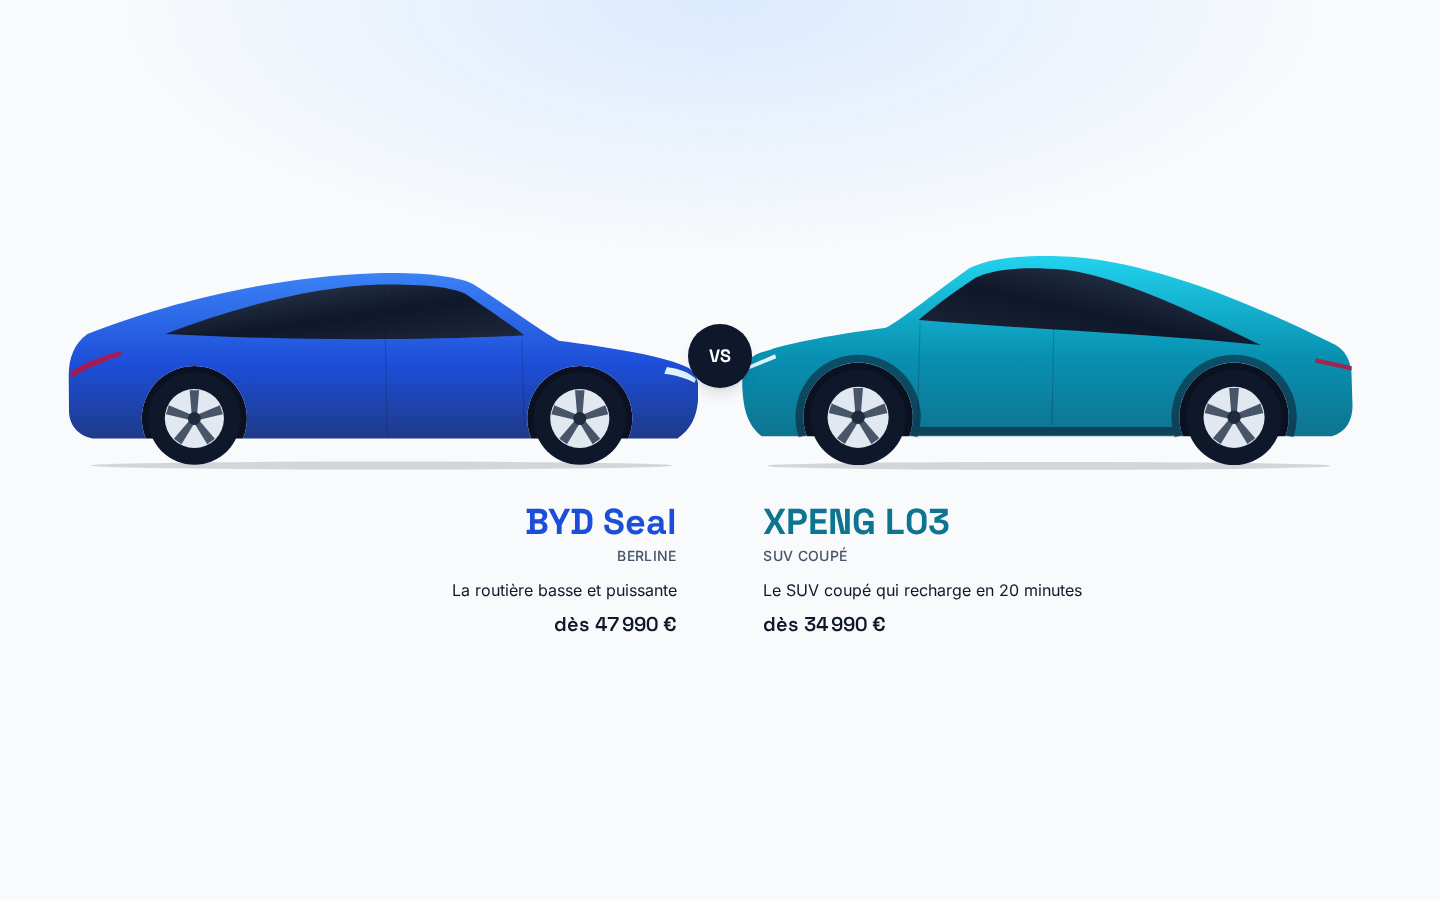
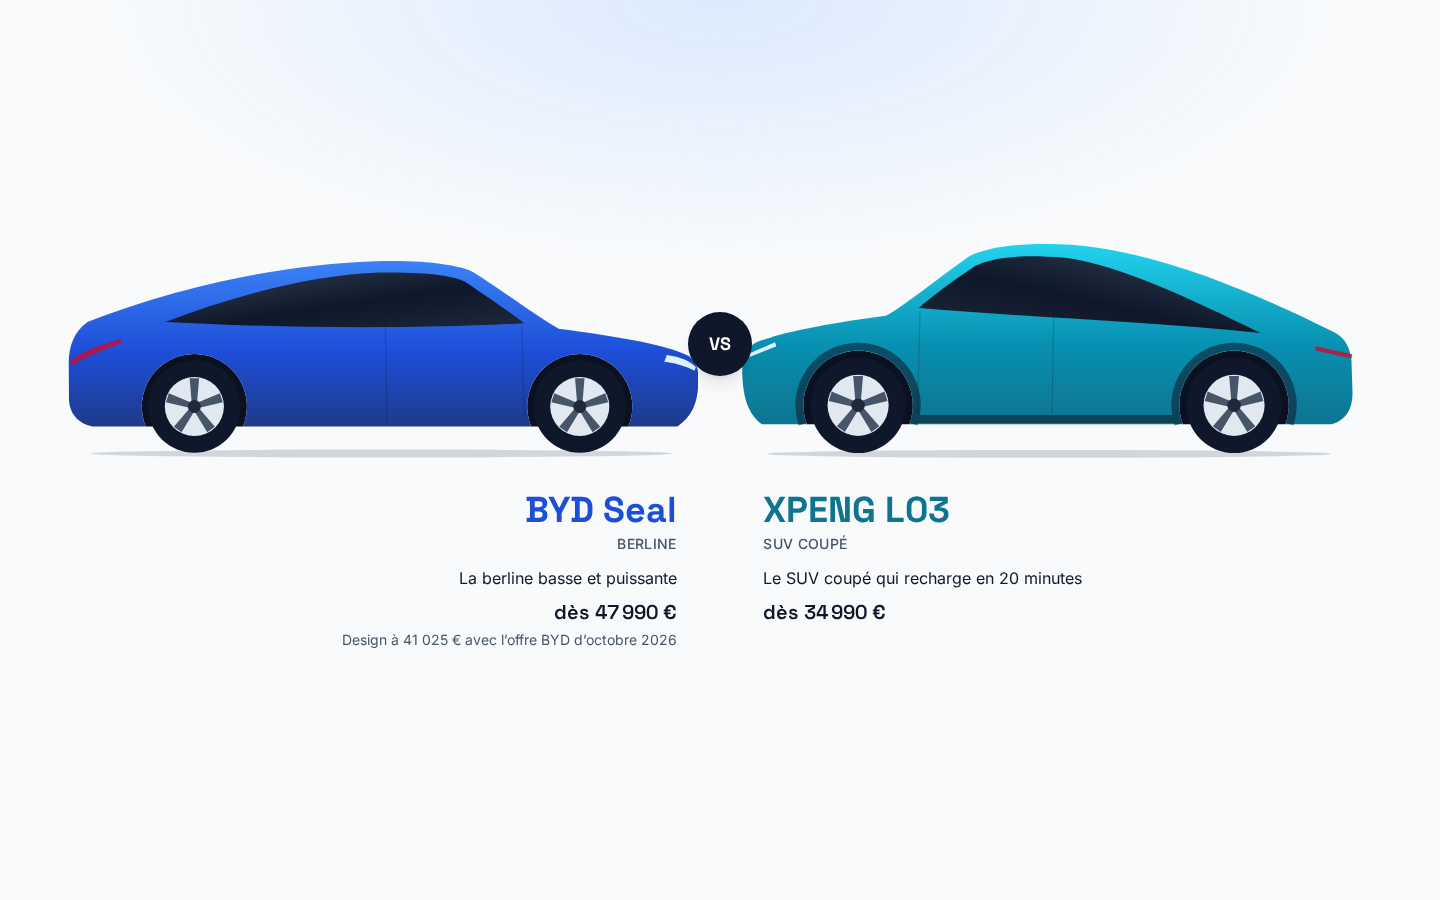
fix: label announced charge times and close remaining review notes
Show BYD's October offer, keep the level-2 aids listed on the L03 Ultra,
name values and stars for screen readers, wrap long equipment labels on
phones, link the recap from the footer, and refresh the screenshots.

Changed region(s): [[0.0312, 0.2489, 0.9375, 0.7156]]

diff --git a/src/data/cars.ts b/src/data/cars.ts
@@ -34,7 +34,7 @@ const l03UltraEquipment: Equipment = {
   ...l03Equipment,
   audio: 'XOPERA, 18 + 2 haut-parleurs, réduction active du bruit',
   massage: 'Sièges avant',
-  adas: 'XNGP : changement de voie automatique (fonctions avancées attendues en Europe en 2027)',
+  adas: 'Niveau 2 XPILOT + XNGP : changement de voie automatique (fonctions avancées attendues en Europe en 2027)',
 }
 
 const sealDesign: Trim = {
@@ -65,6 +65,7 @@ export const seal: Car = {
   model: 'Seal',
   body: 'Berline',
   tagline: 'La berline basse et puissante',
+  offer: 'Design à 41 025 € avec l’offre BYD d’octobre 2026',
   lengthMm: 4_800,
   widthMm: 1_875,
   heightMm: 1_460,
@@ -138,6 +139,7 @@ export const seal: Car = {
     'Tu veux une sécurité déjà notée 5 étoiles',
     'Tu veux la garantie batterie la plus longue (250 000 km)',
     'Tu cherches les performances (530 ch en Excellence)',
+    'Des arrêts de 37 min pour recharger ne te dérangent pas',
   ],
 }
 
@@ -253,7 +255,7 @@ export const l03: Car = {
     'Pas de vrai mode one-pedal, alertes de vigilance insistantes',
   ],
   pickIf: [
-    'Ton budget compte : 13 000 € de moins en entrée',
+    'Ton budget compte : 13 000 € de moins en entrée, hors remises',
     'Tu veux recharger vite et arriver plus tôt en voyage',
     'Tu préfères la position haute et le hayon',
     'Tu veux le plus d’équipement par euro',

diff --git a/src/components/Verdict.tsx b/src/components/Verdict.tsx
@@ -70,13 +70,21 @@ export function Verdict() {
               source primaire relue à la main. Données au 28 octobre 2026, prix TTC hors options, aucune des deux voitures
               n’ouvrant droit au coup de pouce.
             </p>
-            <a
-              href={`${REPO_URL}/tree/main/research`}
-              className="mt-4 inline-flex min-h-11 items-center gap-2 text-sm font-semibold text-accent hover:underline"
-            >
-              Rapports bruts et récap sur GitHub
-              <ExternalLink aria-hidden className="size-4" />
-            </a>
+            <div className="mt-4 flex flex-wrap gap-x-6">
+              {[
+                { label: 'Récap complet', href: `${REPO_URL}/blob/main/RECAP.md` },
+                { label: 'Rapports bruts', href: `${REPO_URL}/tree/main/research` },
+              ].map((link) => (
+                <a
+                  key={link.href}
+                  href={link.href}
+                  className="inline-flex min-h-11 items-center gap-2 text-sm font-semibold text-accent hover:underline"
+                >
+                  {link.label}
+                  <ExternalLink aria-hidden className="size-4" />
+                </a>
+              ))}
+            </div>
           </div>
           <div>
             <p className="font-display text-lg font-semibold">Sources principales</p>

diff --git a/src/components/Details.tsx b/src/components/Details.tsx
@@ -47,7 +47,7 @@ export function Equipment({ selection }: { selection: Selection }) {
             transition={{ duration: 0.4, delay: Math.min(index * 0.04, 0.3) }}
           >
             <EquipmentCell car="seal" detail={trims.seal.equipment[item.id]} />
-            <p className="w-20 text-center text-[11px] font-semibold tracking-wide text-muted uppercase md:w-40 md:text-xs">
+            <p className="w-20 text-center text-[11px] font-semibold tracking-wide break-words hyphens-auto text-muted uppercase md:w-40 md:text-xs">
               {item.label}
             </p>
             <EquipmentCell car="l03" detail={trims.l03.equipment[item.id]} />
@@ -89,7 +89,7 @@ function SafetyCard({ car }: { car: Car }) {
             <ShieldCheck aria-hidden className={`size-5 ${CAR_STYLE[car.id].text}`} />
             Euro NCAP {ncap.year}
           </p>
-          <p className="mt-2 flex gap-1" aria-label={`${ncap.stars} étoiles sur 5`}>
+          <p className="mt-2 flex gap-1" role="img" aria-label={`${ncap.stars} étoiles sur 5`}>
             {Array.from({ length: 5 }, (_, index) => (
               <Star
                 key={index}

diff --git a/src/lib/compare.ts b/src/lib/compare.ts
@@ -27,7 +27,7 @@ export const METRICS: readonly Metric[] = [
     format: (v) => `${formatNumber(Math.round(v))} km`,
     estimated: (c, t) => !highwayProfile(c, t).measured,
   },
-  { id: 'charge', label: 'Recharge 10-80 %', better: 'lower', read: (_, t) => t.dc10to80Min, format: (v) => `${formatNumber(v)} min` },
+  { id: 'charge', label: 'Recharge 10-80 % (annoncée)', better: 'lower', read: (_, t) => t.dc10to80Min, format: (v) => `${formatNumber(v)} min` },
   { id: 'dc', label: 'Puissance de charge', better: 'higher', read: (_, t) => t.dcPeakKw, format: (v) => `${formatNumber(v)} kW` },
   { id: 'trunk', label: 'Coffres (arrière + avant)', better: 'higher', read: (c, t) => c.trunkL + t.frunkL, format: (v) => `${formatNumber(v)} L` },
   { id: 'weight', label: 'Poids à vide', better: 'lower', read: (_, t) => t.weightKg, format: (v) => `${formatNumber(v)} kg` },

diff --git a/src/components/Hero.tsx b/src/components/Hero.tsx
@@ -8,7 +8,7 @@ import { CarSilhouette } from './CarSilhouette'
 import { CAR_STYLE } from './ui'
 
 function HeroStats({ car }: { car: CarId }) {
-  const { brand, model, body, tagline, trims } = CARS[car]
+  const { brand, model, body, tagline, offer, trims } = CARS[car]
   const from = Math.min(...trims.map((trim) => trim.priceEur))
   return (
     <div className={car === 'seal' ? 'text-right' : 'text-left'}>
@@ -18,6 +18,7 @@ function HeroStats({ car }: { car: CarId }) {
       <p className="mt-1 text-sm font-medium tracking-wide text-muted uppercase">{body}</p>
       <p className="mt-3 hidden text-base text-pretty text-ink md:block">{tagline}</p>
       <p className="mt-2 font-display text-lg font-semibold tabular md:text-xl">dès {formatEur(from)}</p>
+      {offer && <p className="mt-1 text-xs text-muted md:text-sm">{offer}</p>}
     </div>
   )
 }

diff --git a/src/components/Energy.tsx b/src/components/Energy.tsx
@@ -105,8 +105,8 @@ export function Energy({ selection }: { selection: Selection }) {
             <span>
               {saved > 0 ? (
                 <>
-                  <CarName car="l03" /> rend la main <strong className="font-display tabular">{saved} min</strong> plus tôt
-                  à chaque arrêt.
+                  Sur les temps annoncés, <CarName car="l03" /> rend la main{' '}
+                  <strong className="font-display tabular">{saved} min</strong> plus tôt à chaque arrêt.
                 </>
               ) : (
                 <>

diff --git a/src/components/RoadTrip.tsx b/src/components/RoadTrip.tsx
@@ -124,7 +124,7 @@ export function RoadTrip({ selection }: { selection: Selection }) {
               />
               <MapPin aria-hidden className="size-4" />
               {option.label}
-              <span className={checked ? 'text-white/80' : 'text-muted'}>{formatNumber(option.distanceKm)} km</span>
+              <span className={checked ? 'text-white' : 'text-muted'}>{formatNumber(option.distanceKm)} km</span>
             </label>
           )
         })}

diff --git a/src/components/Scoreboard.tsx b/src/components/Scoreboard.tsx
@@ -37,6 +37,7 @@ function Bar({ car, row }: { car: CarId; row: Row }) {
           car === 'seal' ? 'text-left' : 'text-right'
         } ${won ? style.text : 'text-muted'}`}
       >
+        <span className="sr-only">{car === 'seal' ? 'Seal' : 'L03'} : </span>
         {row.estimated[car] && <span title="Estimation">≈ </span>}
         {row.metric.format(row.values[car])}
       </span>

diff --git a/src/data/types.ts b/src/data/types.ts
@@ -77,6 +77,8 @@ export interface Car {
   readonly model: string
   readonly body: string
   readonly tagline: string
+  /** A time-limited dealer offer, shown next to the list price. */
+  readonly offer?: string
   readonly lengthMm: number
   readonly widthMm: number
   readonly heightMm: number

diff --git a/DESIGN.md b/DESIGN.md
@@ -28,11 +28,11 @@ Typographie : Space Grotesk pour les titres et les chiffres (`tabular-nums`), In
 3. **Le match.** Diagramme papillon : une ligne par critère, la barre de la Seal pousse vers la gauche, celle du L03 vers la droite, le centre marque le gagnant.
 4. **Course 0-100.** Deux couloirs, durée réelle de chaque finition.
 5. **Charge 10-80 %.** Deux batteries se remplissent, une minute réelle vaut un quart de seconde.
-6. **Road trip.** Paris vers Lyon, Bordeaux, Marseille ou Nice à 130 km/h, avec les mesures d'Automobile Propre. Frise des trajets et des arrêts pour chaque voiture.
+6. **Road trip.** Paris vers Nantes, Lyon, Bordeaux, Marseille ou Nice à 130 km/h, à partir des mesures d'Automobile Propre et pour les finitions choisies. Frise des trajets et des arrêts pour chaque voiture.
 7. **Gabarit.** Les deux silhouettes se superposent à l'échelle, cotes à l'appui, puis les volumes de coffre.
 8. **Équipements, sécurité, presse, verdict, sources.**
 
-Durées : 200 à 300 ms pour les micro-interactions, 500 à 700 ms pour les entrées de section, montée de 24 px. Les barres utilisent `scaleX`, jamais `width`. Avec `prefers-reduced-motion`, toutes les scènes s'affichent dans leur état final et les courses montrent directement le résultat.
+Durées : 200 à 300 ms pour les micro-interactions, 500 à 700 ms pour les entrées de section, montée de 24 px. Les barres ont une largeur fixe et grandissent en `scaleX`, déclenché par leur parent. Avec `prefers-reduced-motion`, toutes les scènes s'affichent dans leur état final et les courses montrent directement le résultat.
 
 ## Responsive
 

diff --git a/README.md b/README.md
@@ -15,7 +15,7 @@ pnpm test         # calcul du road trip et choix du gagnant de chaque critère
 pnpm typecheck && pnpm lint
 ```
 
-Toutes les données vivent dans [`src/data/cars.ts`](src/data/cars.ts). Les composants ne contiennent aucun chiffre en dur : changer une valeur là-bas met à jour le tableau d'affichage, les courses, le road trip et les fiches.
+Les données vivent dans [`src/data/cars.ts`](src/data/cars.ts) : changer une valeur là-bas met à jour le tableau d'affichage, les courses, le road trip et les fiches. Quelques phrases citent encore des mesures d'essai en toutes lettres (sections recharge, road trip et équipements) : à relire si une mesure change.
 
 ## Servir sur Jarvis (port 8519)
 
